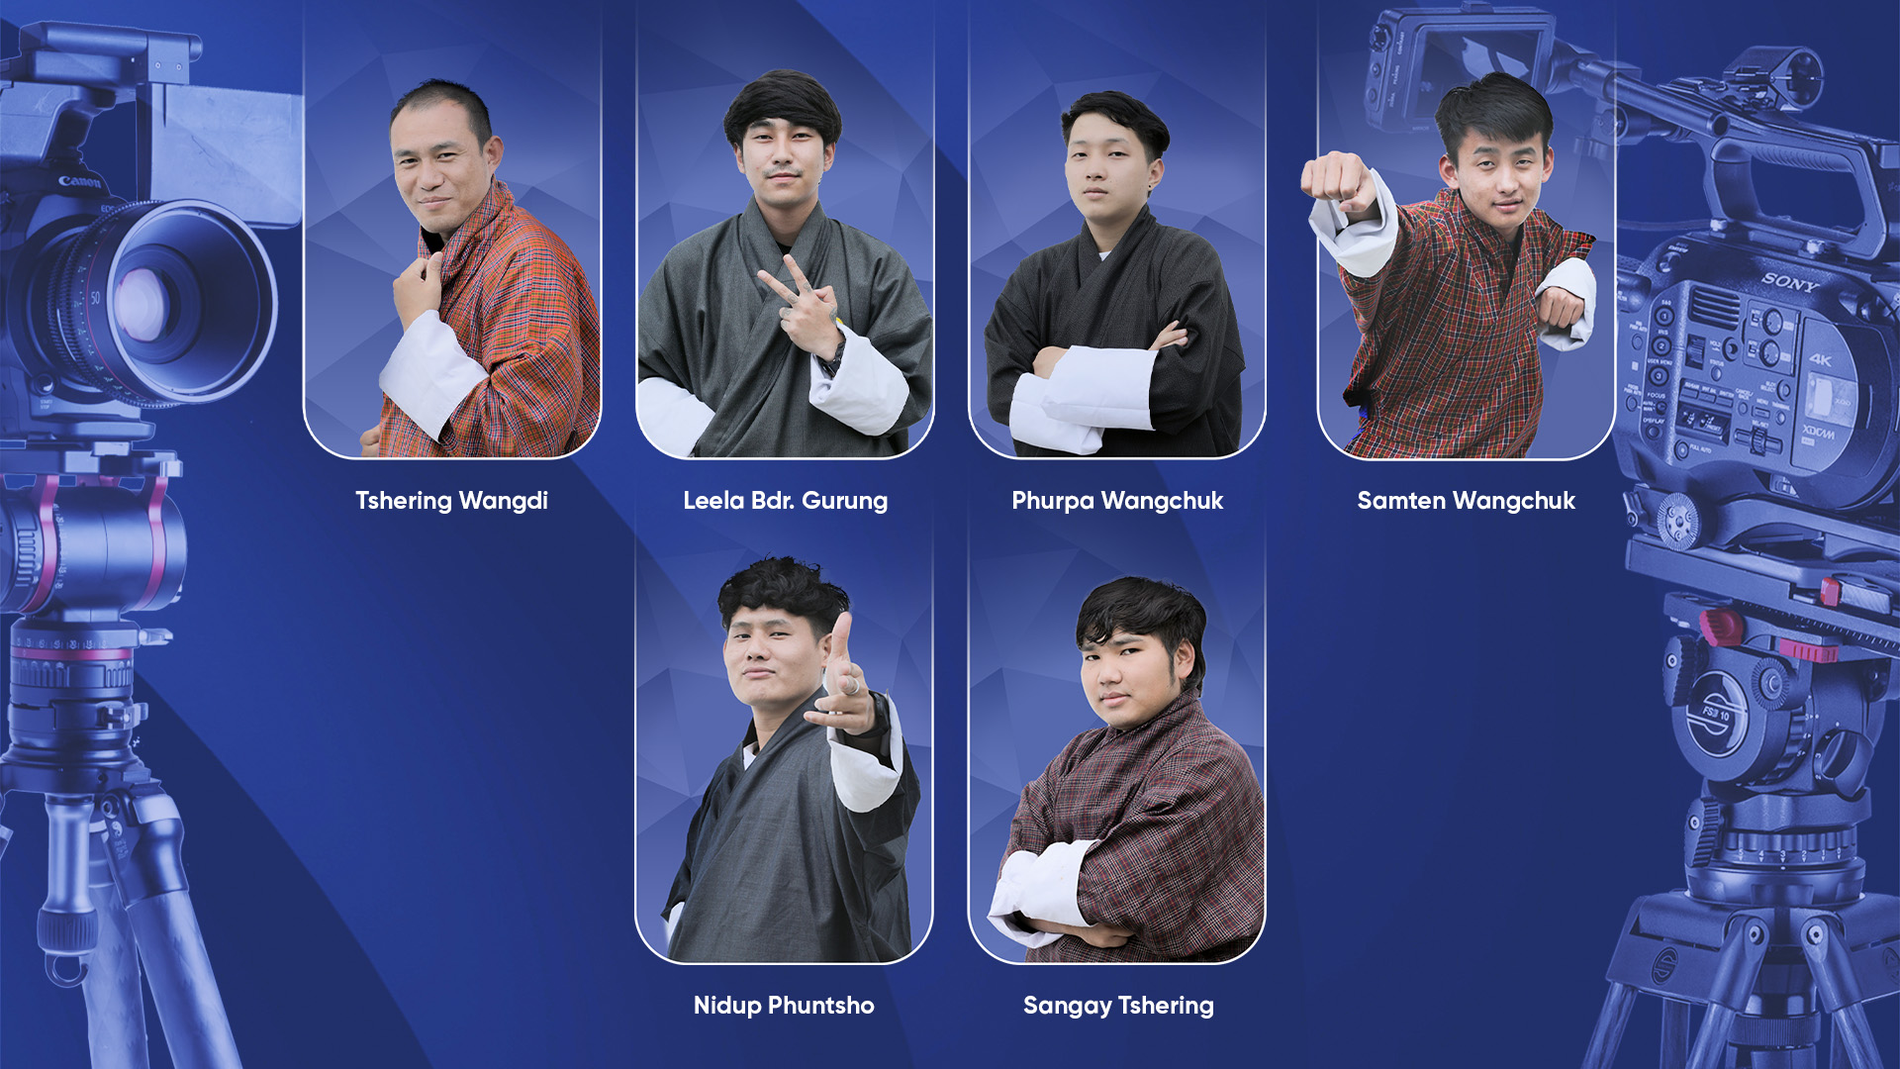
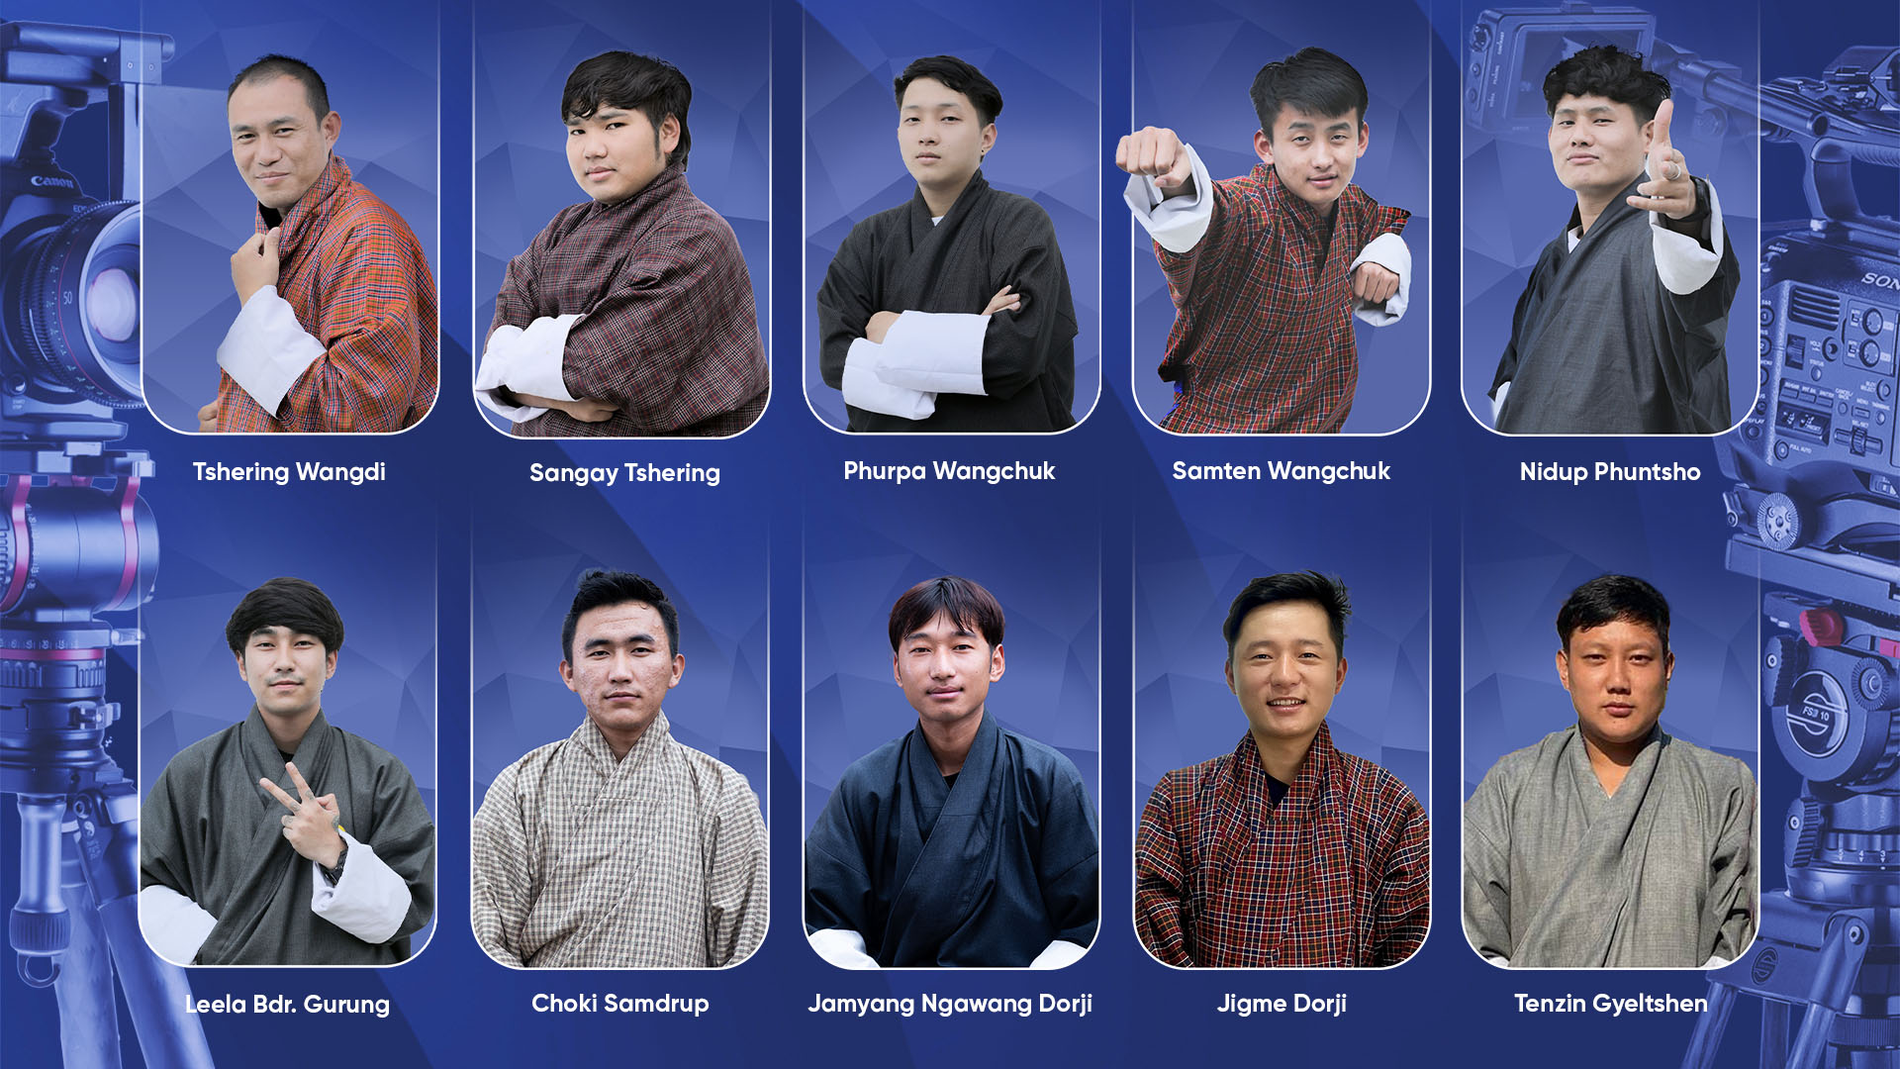
feat : ui fix and page enhancement

diff --git a/src/assets/content/faq/FAQ.tsx b/src/assets/content/faq/FAQ.tsx
@@ -20,9 +20,13 @@ export const educareSkillFAQ = {
     {
       question: "Is Educare Skill free?",
       answer: [
-        `Not exactly. However, if you are a **child aged 3 and above or a student in Classes PP–VI residing in Bhutan**, you can access and use Educare Skill for **free since you are eligible for subsidized support from the Department of Culture and Dzongkha Development (DCDD)**, Ministry of Home Affairs. To avail this support, you must get in touch with Educare Skill support team to register. Once registered, you will receive a User ID and Password. You must then sign in via the DCDD Sign In section using the credentials provided.
-        
-        If **you are not eligible for the DCDD support**, you have to choose membership plan of choice to access content on Educare Skill and begin your Dzongkha learning journey.`,
+        `Not exactly. From **17 February 2026 onwards**, target beneficiaries previously supported by the Department of Culture and Dzongkha Development (DCDD) will no longer be able to access and use Educare Skill free of charge until further notice.
+
+        For your information, the DCDD provided subsidized subscription support from **August 2024 to December 2025** to children aged 3 and above and students in Classes PP–VI residing in Bhutan.
+
+        To continue learning Dzongkha through our platform, you will need to purchase a membership plan of your choice to access Dzongkha content on Educare Skill.
+
+        Explore our affordable membership plans at: https://educareskill.com/aboutus/membership`,
       ],
     },
     {
@@ -36,7 +40,8 @@ export const educareSkillFAQ = {
       ],
     },
     {
-      question: "Who are the experts reviewing Educare Skill content, and is the content aligned with the national curriculum?",
+      question:
+        "Who are the experts reviewing Educare Skill content, and is the content aligned with the national curriculum?",
       answer: [
         `Since Educare Skill primarily focuses on Dzongkha, a wide range of Dzongkha teachers, language professionals, and multimedia production experts have been involved in developing its content. From the inception of a lesson idea to the final output, every content goes through a series of internal reviews to ensure high-quality video production (visuals, sound, music, voice, etc.) as well as strong lesson outcomes, including grammar, language accuracy, and pronunciation, etc.,
 
@@ -46,13 +51,14 @@ export const educareSkillFAQ = {
       ],
     },
     {
-      question: "How does DCDD support our children and students in learning Dzongkha?",
+      question:
+        "How does DCDD support our children and students in learning Dzongkha?",
       answer: [
-        `Following the formalization of a Memorandum of Understanding (MoU) with Educare Skill, the Department of Culture and Dzongkha Development (DCDD) has provided subsidized support to enable free access to Educare Skill for children aged three and above, children enrolled in ECCD centres, and students in Classes PP–VI residing in Bhutan.,
+        `Following the formalization of a Memorandum of Understanding (MoU) with Educare Skill in August 2024, the Department of Culture and Dzongkha Development (DCDD) has provided subsidized support to enable free access to Educare Skill for children aged three and above, children enrolled in ECCD centres, and students in Classes PP–VI residing in Bhutan.
 
-        For your information, DCDD is the apex institution and authority responsible for the development and promotion of Bhutan’s national language, Dzongkha. After the erstwhile Dzongkha Development Commission (DDC) was merged with the Department of Culture, DCDD became the country’s most important public institution dedicated to preserving, promoting, developing, and enhancing the rich cultural and traditional heritage of our Nation.,
+        However, from 17 February 2026 onwards, target beneficiaries previously supported by the DCDD will no longer be able to access and use Educare Skill free of charge until further notice.
 
-        To learn more about DCDD, you may visit their official website: https://doc.gov.bt/ `,
+        For your information, DCDD is the apex institution and authority responsible for the development and promotion of Bhutan’s national language, Dzongkha. After the erstwhile Dzongkha Development Commission (DDC) was merged with the Department of Culture, DCDD became the country’s most important public institution dedicated to preserving, promoting, developing, and enhancing the rich cultural and traditional heritage of our Nation. To learn more about DCDD, you may visit its official website: https://doc.gov.bt/ `,
       ],
     },
     {

diff --git a/src/assets/content/team/Team.tsx b/src/assets/content/team/Team.tsx
@@ -1,4 +1,4 @@
-import {  BGArtistsProfile, ContentWritersProfile, IllustratorsProfile, ManagementTeamProfile, MusicDirectorProfile, SoftwareDevelopersProfile, ThreeDAnimatorProfile, TwoDAnimatorProfile, VideographersProfile, VisualEditorsProfile } from "assets";
+import {  BGArtistsProfile, ContentWritersProfile, IllustratorsProfile, ManagementTeamProfile, MusicDirectorProfile, NewIllustratorsProfile, NewManagementTeam, NewProductionTeam, NewSoftwareDeveloperTeam, NewThreeDAnimatorProfile, NewVideographersProfile, SoftwareDevelopersProfile, ThreeDAnimatorProfile, TwoDAnimatorProfile, VideographersProfile, VisualEditorsProfile } from "assets";
 
 export const TeamProfileHeader = {
     title:"EDUCARE SKILL HALL OF FAME",
@@ -13,7 +13,7 @@ export const TeamProfile = [
     id:1,
     team: "Management Team",
     colorCode:"",
-    prfile: ManagementTeamProfile,
+    prfile: NewManagementTeam,
     teamNote: `Our management team drives efficiency, growth, and excellence across the organization. The adept team oversees operations, manages finances, and ensures smooth administrative processes. The management team brings all members together to focus on achieving the company’s common goals.`,
     subTeamcategory: [],
   },
@@ -21,7 +21,7 @@ export const TeamProfile = [
     id:2,
     team: "Technology Team",
     colorCode:"",
-    prfile: SoftwareDevelopersProfile,
+    prfile: NewSoftwareDeveloperTeam,
     teamNote: `Our dedicated team of software developers designs, develops, and maintains our websites and applications, ensuring operations run smoothly and the needs of users are met. They write clean, efficient code, troubleshoot issues, and collaborate with teams to deliver reliable and scalable digital solutions.`,
     subTeamcategory: [],
   },
@@ -35,13 +35,13 @@ export const TeamProfile = [
       {
         id:1,
         team: "Creative Director / Content Writers",
-        prfile: ContentWritersProfile,
+        prfile: NewProductionTeam,
         teamNote: `After the inception of an idea, the creative director/content writer writes a script, which undergoes a series of reviews until it is solidified into a fully-fledged screenplay. Creative Director/Content Writer acts as project coordinator or director, working with the team, ensuring that the desired quality is met.`,
       },
       {
         id:2,
         team: "Storyboard Artists / Illustrators",
-        prfile: IllustratorsProfile,
+        prfile: NewIllustratorsProfile,
         teamNote: `After the script/screenplay has been developed, the storyboard artist/illustrator works on the storyboard, which is used as a visual and chronological guide for the production team.`,
       },
       {
@@ -59,13 +59,13 @@ export const TeamProfile = [
       {
         id:5,
         team: "3D Animators",
-        prfile: ThreeDAnimatorProfile,
+        prfile: NewThreeDAnimatorProfile,
         teamNote: `After the storyboard is completed, it is then pushed to our team of Animators, where every action and dialogue is animated frame-by-frame, bringing characters and stories to life.`,
       },
       {
         id:6,
         team: "Videographers",
-        prfile: VideographersProfile,
+        prfile: NewVideographersProfile,
         teamNote: `Our videography team records video content and films footage. They dictate the visual presentation, using a wide variety of camera angles and movements to tell a story or to capture a scene.`,
       },
        {

diff --git a/src/modules/about/page/sections/AccessContentInfoSection.tsx b/src/modules/about/page/sections/AccessContentInfoSection.tsx
@@ -45,7 +45,7 @@ const AccessContentInfoSection: React.FC = () => {
             <img
               src={EducareSkillLogo}
               alt="DCDD image"
-              className="max-h-full object-contain"
+              className="max-h-full md:w-[120px] lg:w-[200px] object-contain 4xl:w-[400px]"
             />
             <a
               href={EducareSignUpLinkDetails.linkTo}
@@ -56,16 +56,17 @@ const AccessContentInfoSection: React.FC = () => {
             <img
               src={DCDDTextContents}
               alt="DCDD image"
-              className="max-h-full object-contain"
+              className="max-h-full object-contain 4xl:w-[1200px]"
             />
           </div>
 
           {/* Right card */}
-          <div className="border-t-8 rounded-xl border-[#215FF8] shadow-md p-6 flex flex-col items-center justify-center space-y-3 lg:space-y-8 3xl:space-y-12 h-full 3xl:px-10">
+          <div className="border-t-8 rounded-xl border-[#215FF8] shadow-md p-6 flex flex-col items-center justify-center  space-y-3 lg:space-y-3
+          2xl:space-y-6 3xl:space-y-10 h-full 3xl:px-10 4xl:space-y-5 5xl:space-y-6">
             <img
               src={GiftCouponLinkDetail.icon}
               alt="gifticon"
-              className="size-[60px] md:size-[55px] xl:size-[135px] 2xl:size-[160px] 3xl:size-[250px] 4xl:size-[290px] 5xl:size-[320px] xl:mt-3"
+              className="size-[60px] md:size-[60px] lg:size-[100px] xl:size-[120px] 2xl:size-[100px] 3xl:size-[100px] 4xl:size-[250px] 5xl:size-[300px] xl:mt-3"
             />
             <a
               href={getHref()}
@@ -74,15 +75,15 @@ const AccessContentInfoSection: React.FC = () => {
               {GiftCouponLinkDetail.buttonName}
             </a>
 
-            <h1 className="text-center text-2xl sm:text-4xl md:text-lg lg:text-2xl xl:text-[30px] 2xl:text-[60px] 3xl:text-[40px] 4xl:text-[80px] 5xl:text-[90px] font-extrabold">
+            <h1 className="text-center text-2xl sm:text-4xl md:text-[15px] md:leading-4 lg:text-base xl:text-[20px] 2xl:text-[30px] 3xl:text-[30px] 4xl:text-[50px] 4xl:leading-[1.5] 5xl:text-[60px] font-extrabold 3xl:leading-3">
               {GiftCouponLinkDetail.title}
             </h1>
 
-            <p className="text-center text-base sm:text-lg md:text-xs lg:text-base xl:text-xl 2xl:text-4xl 3xl:text-3xl 4xl:text-6xl 5xl:text-6xl ">
+            <p className="text-center text-base sm:text-lg md:text-[10px] md:leading-3 lg:text-xs xl:text-sm 2xl:text-xl 3xl:text-xl 4xl:text-4xl 5xl:text-5xl">
               {renderTextWithLinks(GiftCouponLinkDetail.info1)}
             </p>
 
-            <p className="text-center  text-base sm:text-lg md:text-xs lg:text-base  xl:text-xl 2xl:text-4xl 3xl:text-3xl 4xl:text-6xl 5xl:text-6xl ">
+            <p className="text-center  text-base sm:text-lg md:text-[10px] md:leading-3 lg:text-xs  xl:text-sm 2xl:text-xl 3xl:text-xl 4xl:text-4xl 5xl:text-5xl ">
               {renderTextWithLinks(GiftCouponLinkDetail.info2)}
             </p>
           </div>

diff --git a/src/assets/content/VissionAndMission.tsx b/src/assets/content/VissionAndMission.tsx
@@ -8,3 +8,10 @@ export const EducareVisionContent = {
   content:
     "Here at Educare Skill, we acknowledge the lack of quality Dzongkha learning materials available online and have addressed this issue by creating a Dzongkha Learning platform that caters to everyone, irrespective of age or financial background. We believe that learning is a person’s right and not a privilege, and that our national language should be preserved and protected for all generations to come. We wish to create a platform where children and adults alike can access and enjoy high-quality Dzongkha content that is truly accessible to all.",
 };
+
+export const EndorsementSectionContent = {
+  title: "Mission",
+  content: `Educare Skill is officially endorsed as the “National Online Dzongkha Learning Platform” by the Department of Culture and Dzongkha Development (DCDD) under the Ministry of Home Affairs. All content is reviewed by Dzongkha experts and aligned with the national curriculum to ensure relevance, quality, and impact. Educare Skill enables learners to master our national language, Dzongkha, like never before through more than 1,000 engaging, entertaining, and curriculum-aligned episodes.
+
+        From catchy nursery rhymes and captivating animated series to immersive read-aloud stories and comprehensive, exam-oriented tutorials, the platform offers something for everyone. Whether you are a young child beginning your Dzongkha journey, a student preparing for school examinations, a parent or teacher seeking quality learning resources, or a graduate sitting for the RCSC examinations, our carefully curated content supports you at every stage. In the future, the platform will also offer STEM subjects tutorials and professional courses leading to recognized certifications.`,
+};

diff --git a/src/Routes.tsx b/src/Routes.tsx
@@ -1,5 +1,10 @@
 import { PageNotFound } from "components";
-import { BrowserRouter as Router, Route, Routes, Navigate } from "react-router-dom";
+import {
+  BrowserRouter as Router,
+  Route,
+  Routes,
+  Navigate,
+} from "react-router-dom";
 import Impact from "modules/impact/Impact";
 import WhyChooseUs from "modules/why-choose-us/WhyChooseUs";
 import Leadership from "modules/leadership/Leadership";
@@ -22,20 +27,17 @@ const AppRoutes: React.FC = () => {
         <Route path="*" element={<PageNotFound />} />
         <Route path="/" element={<Navigate to="/aboutus" replace />} />
         {/* About page routes */}
-        
+
         <Route path="/aboutus" element={<About />} />
         <Route
-          path="/aboutus/how-to-get-started?"
+          path="/aboutus/membership"
           element={<HowToGetStarted />}
         />
         <Route
           path="/aboutus/registration-guide"
           element={<RegistrationGuide />}
         />
-        <Route
-          path="/aboutus/for-dcdd-users"
-          element={<ForDCDDUsers />}
-        />
+        <Route path="/aboutus/for-dcdd-users" element={<ForDCDDUsers />} />
         <Route
           path="/aboutus/gift-coupon-the-gift-of-learning"
           element={<GiftCoupon />}
@@ -46,7 +48,7 @@ const AppRoutes: React.FC = () => {
         />
         {/* Impact page routes */}
         <Route path="/impact" element={<Impact />} />
-         {/* Why Choose Us page routes */}
+        {/* Why Choose Us page routes */}
         <Route path="/why-choose-us" element={<WhyChooseUs />} />
         <Route path="/team" element={<Leadership />} />
         <Route path="/career" element={<Career />} />

diff --git a/src/modules/about/page/sections/EndorsementSection.tsx b/src/modules/about/page/sections/EndorsementSection.tsx
@@ -1,28 +1,19 @@
-import React from "react";
+import { EducareMissionContent, EndorsementSectionContent } from "assets/content/VissionAndMission";
+import { CommonParagraph1 } from "components";
+import { renderTextWithLinks } from "utils/helpers/renderTextWithLinks";
 
-interface EndorsementSectionProps {
-  paragraphs: React.ReactNode;
-}
-
-const EndorsementSection = ({ paragraphs }: EndorsementSectionProps) => {
+const EndorsementSection: React.FC = () => {
   return (
-    <section className="px-6 py-12 md:px-12 lg:px-20 bg-white">
-      <div className="mx-auto max-w-6xl">
-        <div
-          className="relative p-8 md:p-14 lg:p-20 
-                        bg-white 
-                        border border-gray-200 
-                        border-t-[12px] border-t-orange-500 
-                        rounded-[40px] 
-                        shadow-xl shadow-gray-100/50"
-        >
-          <div className="space-y-8 text-center text-gray-700 leading-relaxed md:text-lg">
-            {paragraphs}
-          </div>
+    <section
+      id="about-mission"
+      className="px-4 sm:px-8 md:px-16 lg:px-14 md:py-16 py-6"
+    >
+      {EndorsementSectionContent && (
+        <div className="border-t-8 border-customOriange-200 rounded-2xl shadow-sm shadow-primary-200 p-4 md:p-8 4xl:p-14 text-center space-y-2">
+          <CommonParagraph1 className="whitespace-break-spaces">{renderTextWithLinks(EndorsementSectionContent.content)}</CommonParagraph1>
         </div>
-      </div>
+      )}
     </section>
   );
 };
-
 export default EndorsementSection;

diff --git a/src/modules/why-choose-us/page/WhyChooseUsContent.tsx b/src/modules/why-choose-us/page/WhyChooseUsContent.tsx
@@ -1,6 +1,7 @@
 import { CommonHeader2, CommonParagraph1 } from "components";
 import MainSectionPage from "./sections/MainSectionPage";
 import { aPlus2, APlus, BgYChooseUsImage, girlMascot } from "assets";
+import { DCDDCharacterImage, DCDDShortTextImage } from "assets/images/dcdd";
 
 const WhyChooseUsContent: React.FC = () => {
   return (
@@ -49,9 +50,22 @@ const WhyChooseUsContent: React.FC = () => {
           </div>
         </div>
       </section>
-
       <MainSectionPage />
-      <div className="3xl:h-[200px] 4xl:h-[350px] 5xl:h-[450px]"/>
+      <div className="flex items-center flex-col justify-center ">
+        <div className="px-5">
+          <img
+            src={DCDDShortTextImage}
+            alt="dcdd image"
+            className="border border-customOriange-200 bg-primary-400 rounded-[30px]"
+          />
+        </div>
+        <img
+          src={DCDDCharacterImage}
+          alt="Family"
+          className="h-auto w-full object-contain"
+        />
+      </div>
+      <div className="3xl:h-[200px] 4xl:h-[350px] 5xl:h-[450px]" />
     </>
   );
 };

diff --git a/src/assets/content/about/About.tsx b/src/assets/content/about/About.tsx
@@ -112,7 +112,7 @@ export const EducareSkillGuideContent = [
     title: "Affordable Membership Plans",
     icon: BellIcon,
     frame: BlueBoxImage,
-    href: "/aboutus/how-to-get-started?",
+    href: "/aboutus/membership",
     buttonName: "Join Now",
 
     info: "Join a membership plan of your choice based on your needs. It is simple to make a payment without any hassle. Join today to unlock 1000s episodes of Dzongkha lessons and exam-oriented content to begin your Dzongkha learning journey.",
@@ -393,7 +393,7 @@ export const GiftCouponContent = {
     steps: [
       {
         step1:
-          "Sign In to the Educare Skill platform either through the website or the app.",
+          "Log in to the Educare Skill platform either through the website or the app.",
         step2: "Click on Membership Plan.",
         step3: "Enter your Coupon Code.",
         step4: "Click on Redeem.",

diff --git a/src/modules/about/page/read-more/ExploreEducareContentReadMore.tsx b/src/modules/about/page/read-more/ExploreEducareContentReadMore.tsx
@@ -2,19 +2,14 @@ import Carousel from "components/Carousel";
 import { slides } from "../components/SliderContent";
 import MainSectionPage from "modules/why-choose-us/page/sections/MainSectionPage";
 import EndorsementSection from "../sections/EndorsementSection";
-import { content } from "assets/content/about/About";
+
 
 const ExploreEducareContentReadMore: React.FC = () => {
   return (
     <>
       <section className="relative space-y-4" id="about-carousel">
         <Carousel slides={slides} />
-      <EndorsementSection paragraphs={
-        <>
-        <p>{content.content1}</p>
-        <p>{content.content2}</p>
-        </>
-      } />
+        <EndorsementSection/>
       </section>
       <MainSectionPage isEducareContent />
     </>

diff --git a/src/modules/about/page/read-more/GiftCouponReadMore.tsx b/src/modules/about/page/read-more/GiftCouponReadMore.tsx
@@ -100,7 +100,7 @@ const GiftCouponReadMore: React.FC = () => {
           <div className="px-4 md:px-6 lg:px-11 xl:px-12 2xl:px-12 3xl:px-16 4xl:px-20 5xl:px-24 pt-4 md:pt-6 space-y-4">
             <div className="bg-white rounded-2xl p-3 md:p-4 lg:px-4 xl:px-5 2xl:px-7 3xl:px-9 4xl:px-10 5xl:px-12">
               <CommonParagraph2 className="text-lg md:text-xl font-semibold text-blue-500">
-                {GiftCouponContent.buyerGuide.heading}
+                {GiftCouponContent.recipientGuide.heading}
               </CommonParagraph2>
               <ol className="list-disc list-outside px-4 space-y-2 5xl:space-y-7 mt-2">
                 {GiftCouponContent.recipientGuide.steps.map((item, index) =>

diff --git a/src/assets/images/Team_New/index.tsx b/src/assets/images/Team_New/index.tsx
@@ -1,2 +1,8 @@
 export { default as CEOProfile } from "./Sir T.png";
 export { default as CoFounderProfile } from "./Sir S.png";
+export { default as NewSoftwareDeveloperTeam} from "./Software_Developers.jpg"
+export { default as NewManagementTeam} from "./Management_Team.jpg"
+export { default as NewProductionTeam} from "./Content_Writers.jpg"
+export { default as NewIllustratorsProfile} from "./Illustrators.jpg"
+export { default as NewThreeDAnimatorProfile} from "./3D_Animator.jpg"
+export { default as NewVideographersProfile} from "./Videographers.jpg"

diff --git a/src/assets/images/silders/index.tsx b/src/assets/images/silders/index.tsx
@@ -1,5 +1,5 @@
 export { default as Slider1 } from "./1.Tutor.jpg";
-export { default as Slider2 } from "./2.Download&Register.jpg";
+export { default as Slider2 } from "./NewDownload&Register.jpg";
 export { default as Slider3 } from "./3.MembershipPlan.jpg";
 export { default as Slider4 } from "./4.EducareKids.jpg";
 export { default as Slider5 } from "./5. CheyCheyGames.jpg";
